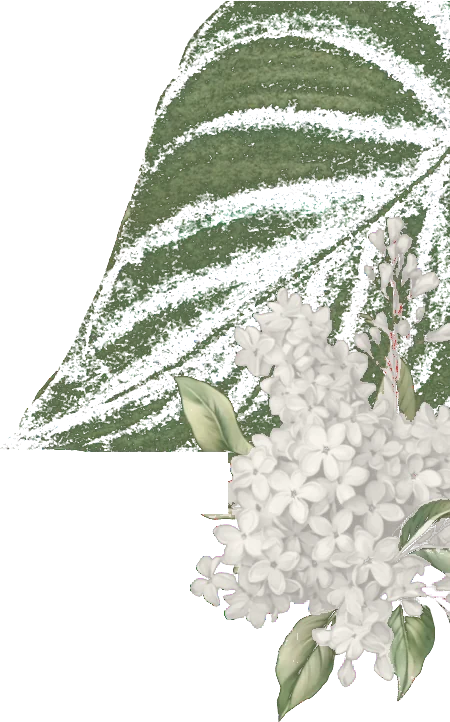
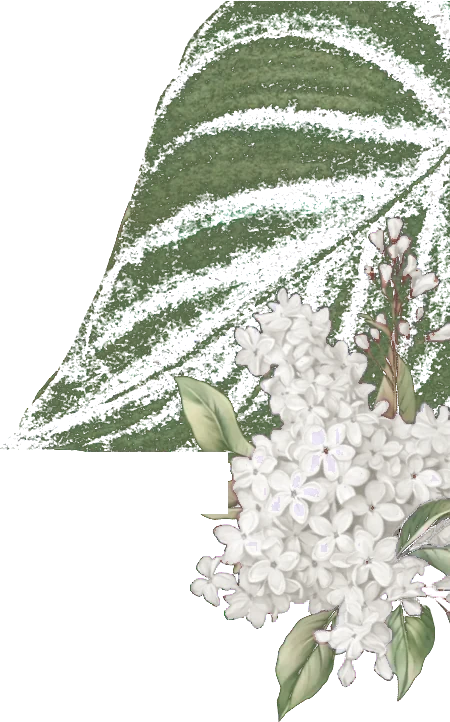
Capa e flor da foto em paleta natural: vermelho do selo, damasco, coral e marfim

diff --git a/index.html b/index.html
@@ -10,8 +10,8 @@
 <meta property="og:title" content="Isis Paranho Viana · Formatura em Medicina">
 <meta property="og:description" content="Você é meu convidado especial. Toque para abrir o convite.">
 <meta property="og:url" content="https://isisparanho-debug.github.io/formatura/">
-<meta property="og:image" content="https://isisparanho-debug.github.io/formatura/og13.jpg">
-<meta property="og:image:secure_url" content="https://isisparanho-debug.github.io/formatura/og13.jpg">
+<meta property="og:image" content="https://isisparanho-debug.github.io/formatura/og14.jpg">
+<meta property="og:image:secure_url" content="https://isisparanho-debug.github.io/formatura/og14.jpg">
 <meta property="og:image:type" content="image/jpeg">
 <meta property="og:locale" content="pt_BR">
 <meta property="og:image:width" content="1200"><meta property="og:image:height" content="630">
